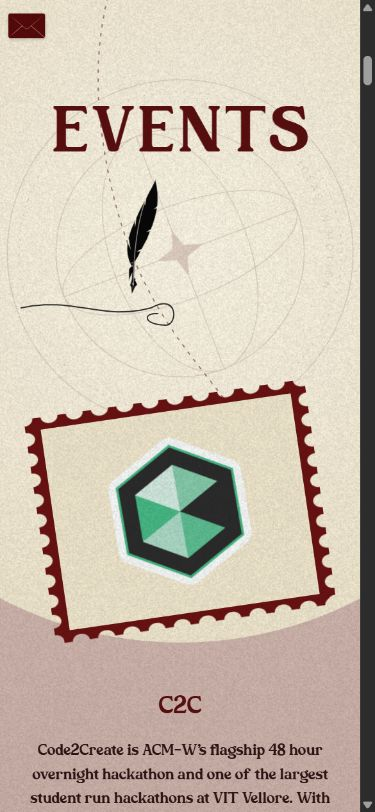
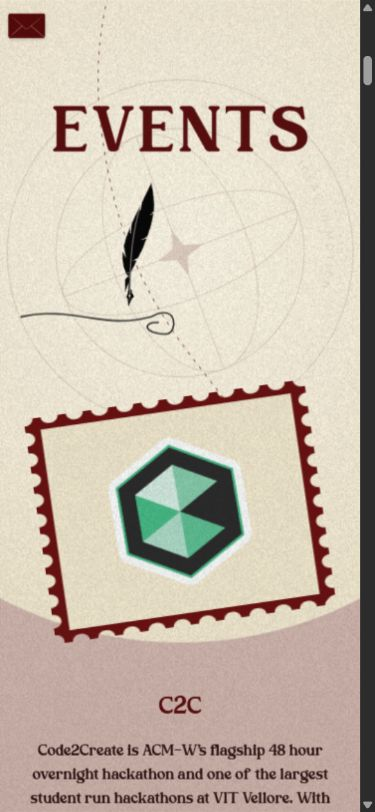
style: subtly quicken the quill and strengthen its ink stroke
Reduce ink tracing from 3.4 to 3.1 seconds, increase line width from 1.7 to 2.1px on desktop and 1.35 to 1.65px on mobile, and enlarge the feather by eight percent. Adjust the desktop sweep clearance to keep the enlarged feather separated from the envelope navigation and heading.

Preserve forward-only replay, entrance and idle timing, title dials and event-card motion. Validation: ESLint, TypeScript/Vite production build and diff checks pass; existing bundle-size warning remains. Reviewed desktop and mobile title/card clearance, checked the console, and refreshed both preview images.

diff --git a/src/components/EventsQuill.tsx b/src/components/EventsQuill.tsx
@@ -89,12 +89,12 @@ export default function EventsQuill() {
         svg.style.top = `${title.top - frame.top - 100}px`;
         svg.style.height = `${height}px`;
         svg.setAttribute('viewBox', `0 0 ${width} ${height}`);
-        scale = compact ? Math.min(.27, width / 1800) : Math.min(.44, Math.max(.34, width / 3100));
+        scale = 1.08 * (compact ? Math.min(.27, width / 1800) : Math.min(.44, Math.max(.34, width / 3100)));
         const left = compact ? 22 : Math.max(32, Math.min(84, width * .055));
         const curl = compact ? 28 : 46;
         const word = heading.querySelector('.events-title-word')!.getBoundingClientRect();
         // Reserve the enlarged blade's full sweep beside the wider title.
-        const titleClearance = word.left - frame.left - scale * 335 - curl - 24;
+        const titleClearance = word.left - frame.left - scale * 335 - curl - 8;
         const right = compact ? Math.min(260, width * .42) : Math.min(width * .245, 340, titleClearance);
         // On stacked layouts the whole blade sits below the title, including idle lift.
         const y = 100 + title.height + (compact ? Math.max(130, scale * 560 + 26) : 125);
@@ -115,7 +115,7 @@ export default function EventsQuill() {
           .to(drift, { x: 0, y: 0, angle: 0, duration: 3.4 });
         sequence = gsap.timeline({ paused: true, onUpdate: render })
           .to(playhead, { entry: 1, duration: .9, ease: 'sine.inOut' })
-          .to(playhead, { ink: 1, duration: 3.4, ease: 'sine.inOut' })
+          .to(playhead, { ink: 1, duration: 3.1, ease: 'sine.inOut' })
           .to(playhead, { settle: 1, duration: .9, ease: 'sine.inOut' });
         const replayForward = () => {
           if (!sequence) return;

diff --git a/src/components/EventsQuill.css b/src/components/EventsQuill.css
@@ -1,6 +1,6 @@
 .events-quill-scene { position: absolute; left: 0; width: 100%; height: 460px; overflow: visible; pointer-events: none; }
-.events-quill-stroke { fill: none; stroke: #080808; stroke-width: 1.7; stroke-linecap: round; stroke-linejoin: round; opacity: .82; }
+.events-quill-stroke { fill: none; stroke: #080808; stroke-width: 2.1; stroke-linecap: round; stroke-linejoin: round; opacity: .82; }
 .events-quill-pen { opacity: 0; transform-origin: 0 0; transform-box: view-box; }
 @media (max-width: 48rem) {
-  .events-quill-stroke { stroke-width: 1.35; }
+  .events-quill-stroke { stroke-width: 1.65; }
 }
